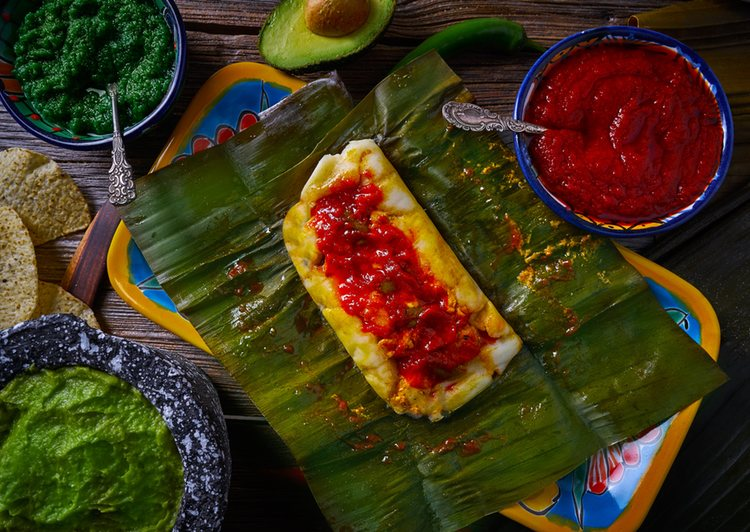
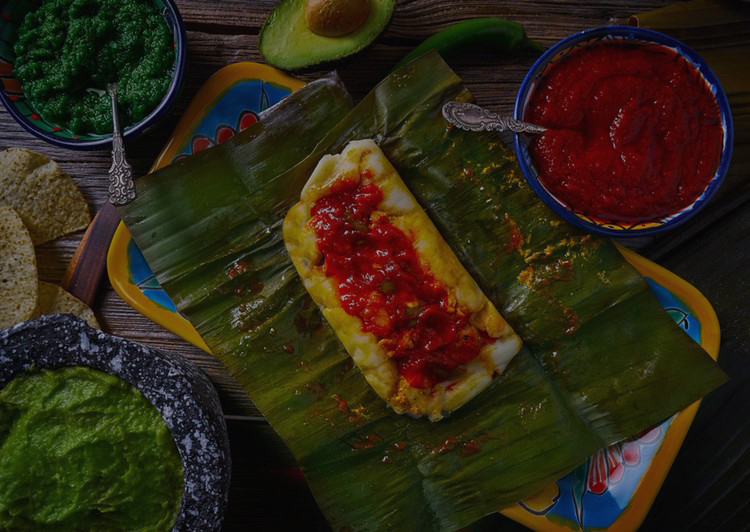
Botones diseñados, <i> acomodados en header

diff --git a/css/styles.css b/css/styles.css
@@ -109,15 +109,13 @@ i:hover{
     width: 100%;
     transition: aal ease-in-out 0.8s;
 }
-.site-header i{
-margin-left: 1rem;
-}
 .site-header.inicio {
     background-image: url(../img/header.png);
     background-position: center center;
     background-size: cover;
     height: 100vh;
     min-height: 60rem;
+    text-shadow: 0 0 3px #1C1C1C, 0 0 5px #000000;
 }
 .contenido-header {
     height: 100%;
@@ -490,11 +488,68 @@ textarea {
 .loginbk h3{
     color: #ffffff;
     padding-top: 30rem;
+    padding-bottom: 11rem;
     max-width: 60rem;
     line-height: 2;
     text-align: center;
+    text-shadow: 0 0 3px #1C1C1C, 0 0 5px #000000;
+
 }
 anuncio1{
     border: 1px solid #B5B5B5;
     
+}
+/*botonesintento2*/
+button{
+    background: none;
+    color:black;
+    width: 12rem;
+    height: 3rem;
+    border: 1px solid #b22222;
+    font-size: 1.3rem;
+    border-radius: .1rem;
+    transition: .6s;
+    overflow: hidden;
+}
+button:focus{
+    outline: none;;
+}
+button:before{
+    content: '';
+    display: block;
+    position: absolute;
+    background: rgba(218, 10, 33,.5);
+    width: .6rem;
+    height: 100%;
+    left:0;
+    top:0;
+    opacity: .5s;
+    filter: blur(3rem);
+    transform: translateX(-13rem) skewX(-15deg);
+
+}
+
+button:after{
+    content:0;
+    display:block;
+    position: absolute;
+    background: rgba(218, 10, 33,.2);
+    width: .3rem;
+    height: 100%;
+    left: .3rem;
+    top:0;
+    opacity:0;
+    filter: blur(3rem);
+}
+button:hover{
+    background: #b22222;
+    cursor:pointer;
+}
+button:hover:before {
+    opacity: .6;
+    transition: 1s;
+}
+button:hover:before {
+    opacity: 1;
+    transition: 1s;
 }

diff --git a/perfill.html b/perfill.html
@@ -30,7 +30,7 @@
                     <a href="anuncios.html">Tienda</a>
                     <a href="blog.html">Blog</a>
                     <a href="contacto.html">Contacto</a>
-                    <a href="carrito.html"><i class="fa fa-shopping-cart"></i>Carrito</a>
+                    <a href="carrito.html"><i class="fa fa-shopping-cart"></i>  Carrito</a>
                     <a href="favoritos.html"><i class="fa fa-heart"></i>  Favoritos / Deseados</a>
                     <a href="perfill.html"> <i class="fa fa-user"></i>  Login</a> <a href="perfils.html"> <i class="fa fa-user"></i>  Signin </a>
                 </nav>
@@ -49,7 +49,7 @@
                 <h3 class="fw-300">Tamales tolito</h3>
                 <input type="email" placeholder="Ingresa tu email" id="email_field" />
                 <input type="password" placeholder="Ingresa tu contraseña" id="password_field" />
-                <button onclick="login()" class="boton boton-verde">Iniciar sesion</button>
+                <button onclick="login()" class="">Iniciar sesion</button>
             </div>
         </div>
     </div>
@@ -57,7 +57,7 @@
     <div id="user_div" class="loggedin-div">
       <h3 class="fw-300">Bienvenido</h3>
       <p id="user_para">Haz iniciado sesion con exito</p>
-      <button onclick="logout()" class="boton boton-verde">Desloguear</button>
+      <button onclick="logout()" class="">Desloguear</button>
     </div>
 
 

diff --git a/Index.html b/Index.html
@@ -31,9 +31,9 @@
                     <a href="anuncios.html">Tienda</a>
                     <a href="blog.html">Blog</a>
                     <a href="contacto.html">Contacto</a>
-                    <a href="carrito.html"><i class="fa fa-shopping-cart"></i>Carrito</a>
-                    <a href="favoritos.html"><i class="fa fa-heart"></i>Favoritos / Deseados</a>
-                    <a href="perfill.html"> <i class="fa fa-user"></i>Login </a>  <a href="perfils.html"> <i class="fa fa-user"></i> Signin </a>
+                    <a href="carrito.html"><i class="fa fa-shopping-cart"></i>  Carrito</a>
+                    <a href="favoritos.html"><i class="fa fa-heart"></i>  Favoritos / Deseados</a>
+                    <a href="perfill.html"> <i class="fa fa-user"></i>  Login</a> <a href="perfils.html"> <i class="fa fa-user"></i>  Signin </a>
                 </nav>
             </div>
             <h1>Los mejores tamales frescos gourmet, a unos clicks de tu mesa ¡Conócenos!</h1>

diff --git a/carrito.html b/carrito.html
@@ -30,9 +30,10 @@
                     <a href="anuncios.html">Tienda</a>
                     <a href="blog.html">Blog</a>
                     <a href="contacto.html">Contacto</a>
-                    <a href="carrito.html"><i class="fa fa-shopping-cart"></i>Carrito</a>
+                    <a href="carrito.html"><i class="fa fa-shopping-cart"></i>  Carrito</a>
                     <a href="favoritos.html"><i class="fa fa-heart"></i>  Favoritos / Deseados</a>
-                    <a href="perfill.html"> <i class="fa fa-user"></i>  Login</a> <a href="perfils.html"> <i class="fa fa-user"></i>  Signin </a></nav>
+                    <a href="perfill.html"> <i class="fa fa-user"></i>  Login</a> <a href="perfils.html"> <i class="fa fa-user"></i>  Signin </a>
+                </nav>
             </div>
         </div> <!-- contenedor -->
     </header>

diff --git a/contacto.html b/contacto.html
@@ -30,9 +30,10 @@
                     <a href="anuncios.html">Tienda</a>
                     <a href="blog.html">Blog</a>
                     <a href="contacto.html">Contacto</a>
-                    <a href="carrito.html"><i class="fa fa-shopping-cart"></i>Carrito</a>
+                    <a href="carrito.html"><i class="fa fa-shopping-cart"></i>  Carrito</a>
                     <a href="favoritos.html"><i class="fa fa-heart"></i>  Favoritos / Deseados</a>
-                    <a href="perfill.html"> <i class="fa fa-user"></i>  Login</a> <a href="perfils.html"> <i class="fa fa-user"></i>  Signin </a></nav>
+                    <a href="perfill.html"> <i class="fa fa-user"></i>  Login</a> <a href="perfils.html"> <i class="fa fa-user"></i>  Signin </a>
+                </nav>
             </div>
         </div> <!-- contenedor -->
     </header>

diff --git a/anuncios.html b/anuncios.html
@@ -30,7 +30,7 @@
                     <a href="anuncios.html">Tienda</a>
                     <a href="blog.html">Blog</a>
                     <a href="contacto.html">Contacto</a>
-                    <a href="carrito.html"><i class="fa fa-shopping-cart"></i>Carrito</a>
+                    <a href="carrito.html"><i class="fa fa-shopping-cart"></i>  Carrito</a>
                     <a href="favoritos.html"><i class="fa fa-heart"></i>  Favoritos / Deseados</a>
                     <a href="perfill.html"> <i class="fa fa-user"></i>  Login</a> <a href="perfils.html"> <i class="fa fa-user"></i>  Signin </a>
                 </nav>

diff --git a/blog.html b/blog.html
@@ -30,7 +30,7 @@
                     <a href="anuncios.html">Tienda</a>
                     <a href="blog.html">Blog</a>
                     <a href="contacto.html">Contacto</a>
-                    <a href="carrito.html"><i class="fa fa-shopping-cart"></i>Carrito</a>
+                    <a href="carrito.html"><i class="fa fa-shopping-cart"></i>  Carrito</a>
                     <a href="favoritos.html"><i class="fa fa-heart"></i>  Favoritos / Deseados</a>
                     <a href="perfill.html"> <i class="fa fa-user"></i>  Login</a> <a href="perfils.html"> <i class="fa fa-user"></i>  Signin </a>
                 </nav>

diff --git a/favoritos.html b/favoritos.html
@@ -30,7 +30,7 @@
                     <a href="anuncios.html">Tienda</a>
                     <a href="blog.html">Blog</a>
                     <a href="contacto.html">Contacto</a>
-                    <a href="carrito.html"><i class="fa fa-shopping-cart"></i>Carrito</a>
+                    <a href="carrito.html"><i class="fa fa-shopping-cart"></i>  Carrito</a>
                     <a href="favoritos.html"><i class="fa fa-heart"></i>  Favoritos / Deseados</a>
                     <a href="perfill.html"> <i class="fa fa-user"></i>  Login</a> <a href="perfils.html"> <i class="fa fa-user"></i>  Signin </a>
                 </nav>

diff --git a/nosotros.html b/nosotros.html
@@ -30,7 +30,7 @@
                     <a href="anuncios.html">Tienda</a>
                     <a href="blog.html">Blog</a>
                     <a href="contacto.html">Contacto</a>
-                    <a href="carrito.html"><i class="fa fa-shopping-cart"></i>Carrito</a>
+                    <a href="carrito.html"><i class="fa fa-shopping-cart"></i>  Carrito</a>
                     <a href="favoritos.html"><i class="fa fa-heart"></i>  Favoritos / Deseados</a>
                     <a href="perfill.html"> <i class="fa fa-user"></i>  Login</a> <a href="perfils.html"> <i class="fa fa-user"></i>  Signin </a>
                 </nav>

diff --git a/perfils.html b/perfils.html
@@ -30,7 +30,7 @@
                     <a href="anuncios.html">Tienda</a>
                     <a href="blog.html">Blog</a>
                     <a href="contacto.html">Contacto</a>
-                    <a href="carrito.html"><i class="fa fa-shopping-cart"></i>Carrito</a>
+                    <a href="carrito.html"><i class="fa fa-shopping-cart"></i>  Carrito</a>
                     <a href="favoritos.html"><i class="fa fa-heart"></i>  Favoritos / Deseados</a>
                     <a href="perfill.html"> <i class="fa fa-user"></i>  Login</a> <a href="perfils.html"> <i class="fa fa-user"></i>  Signin </a>
                 </nav>
